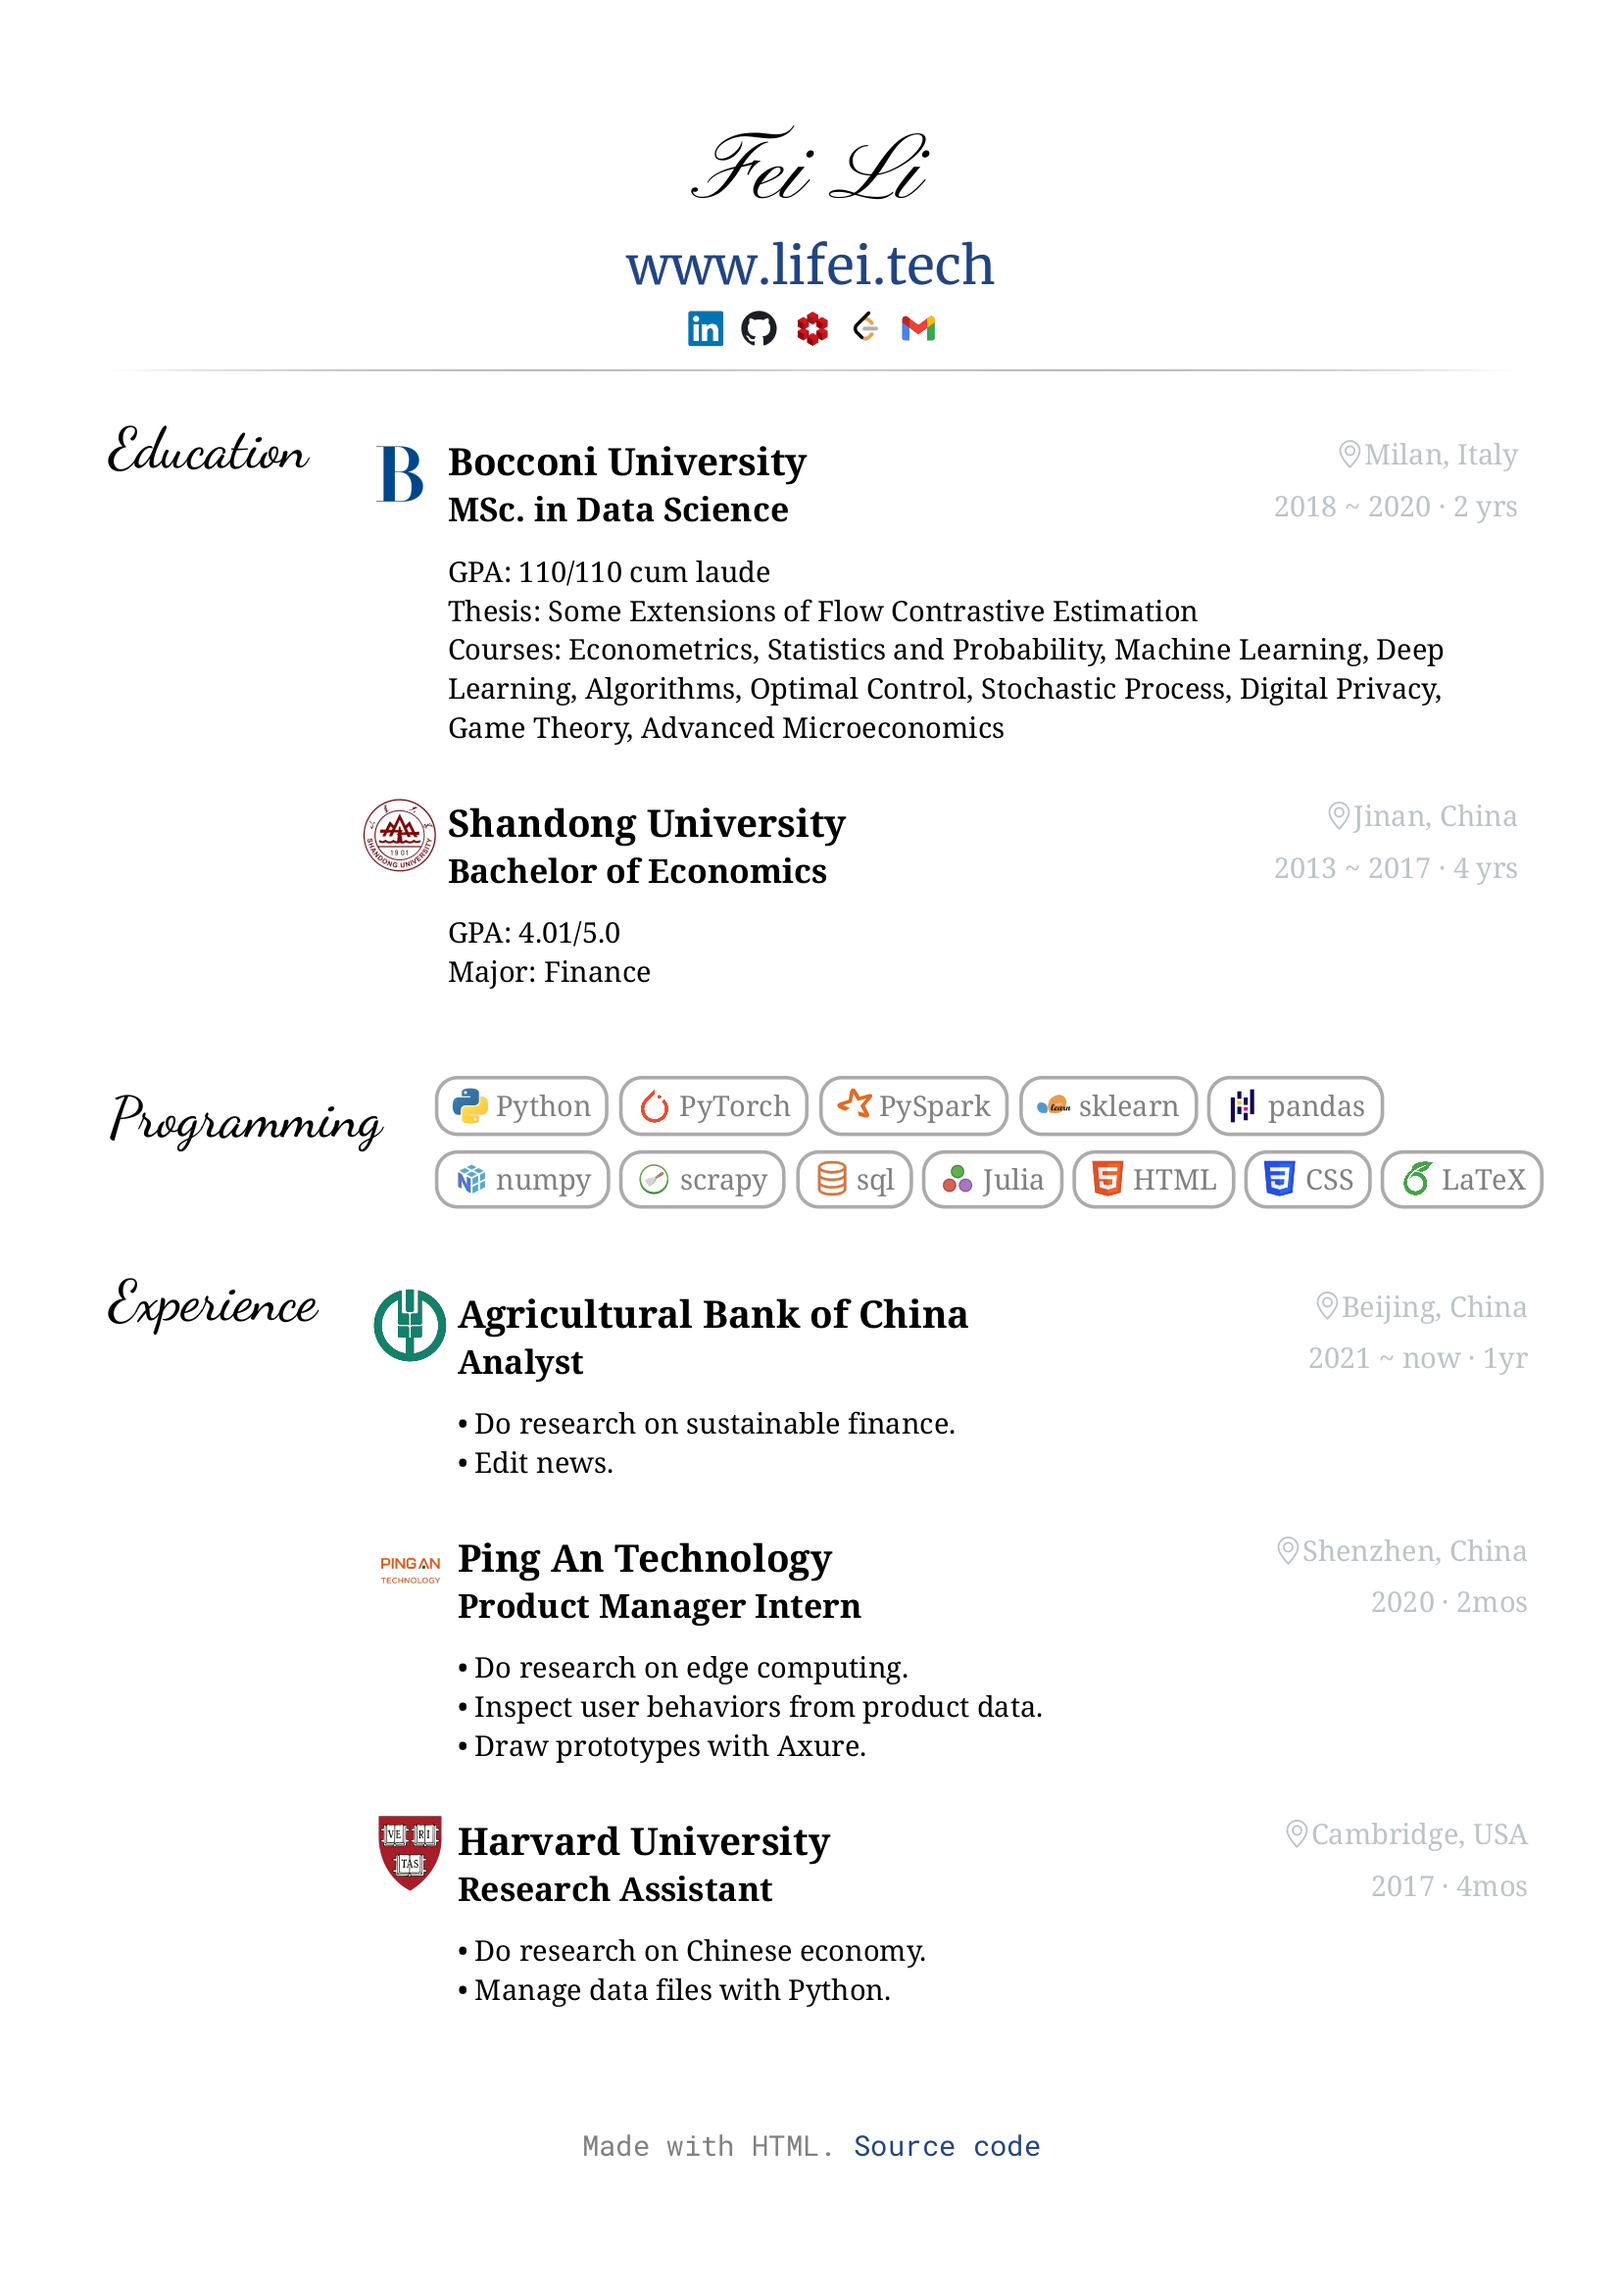
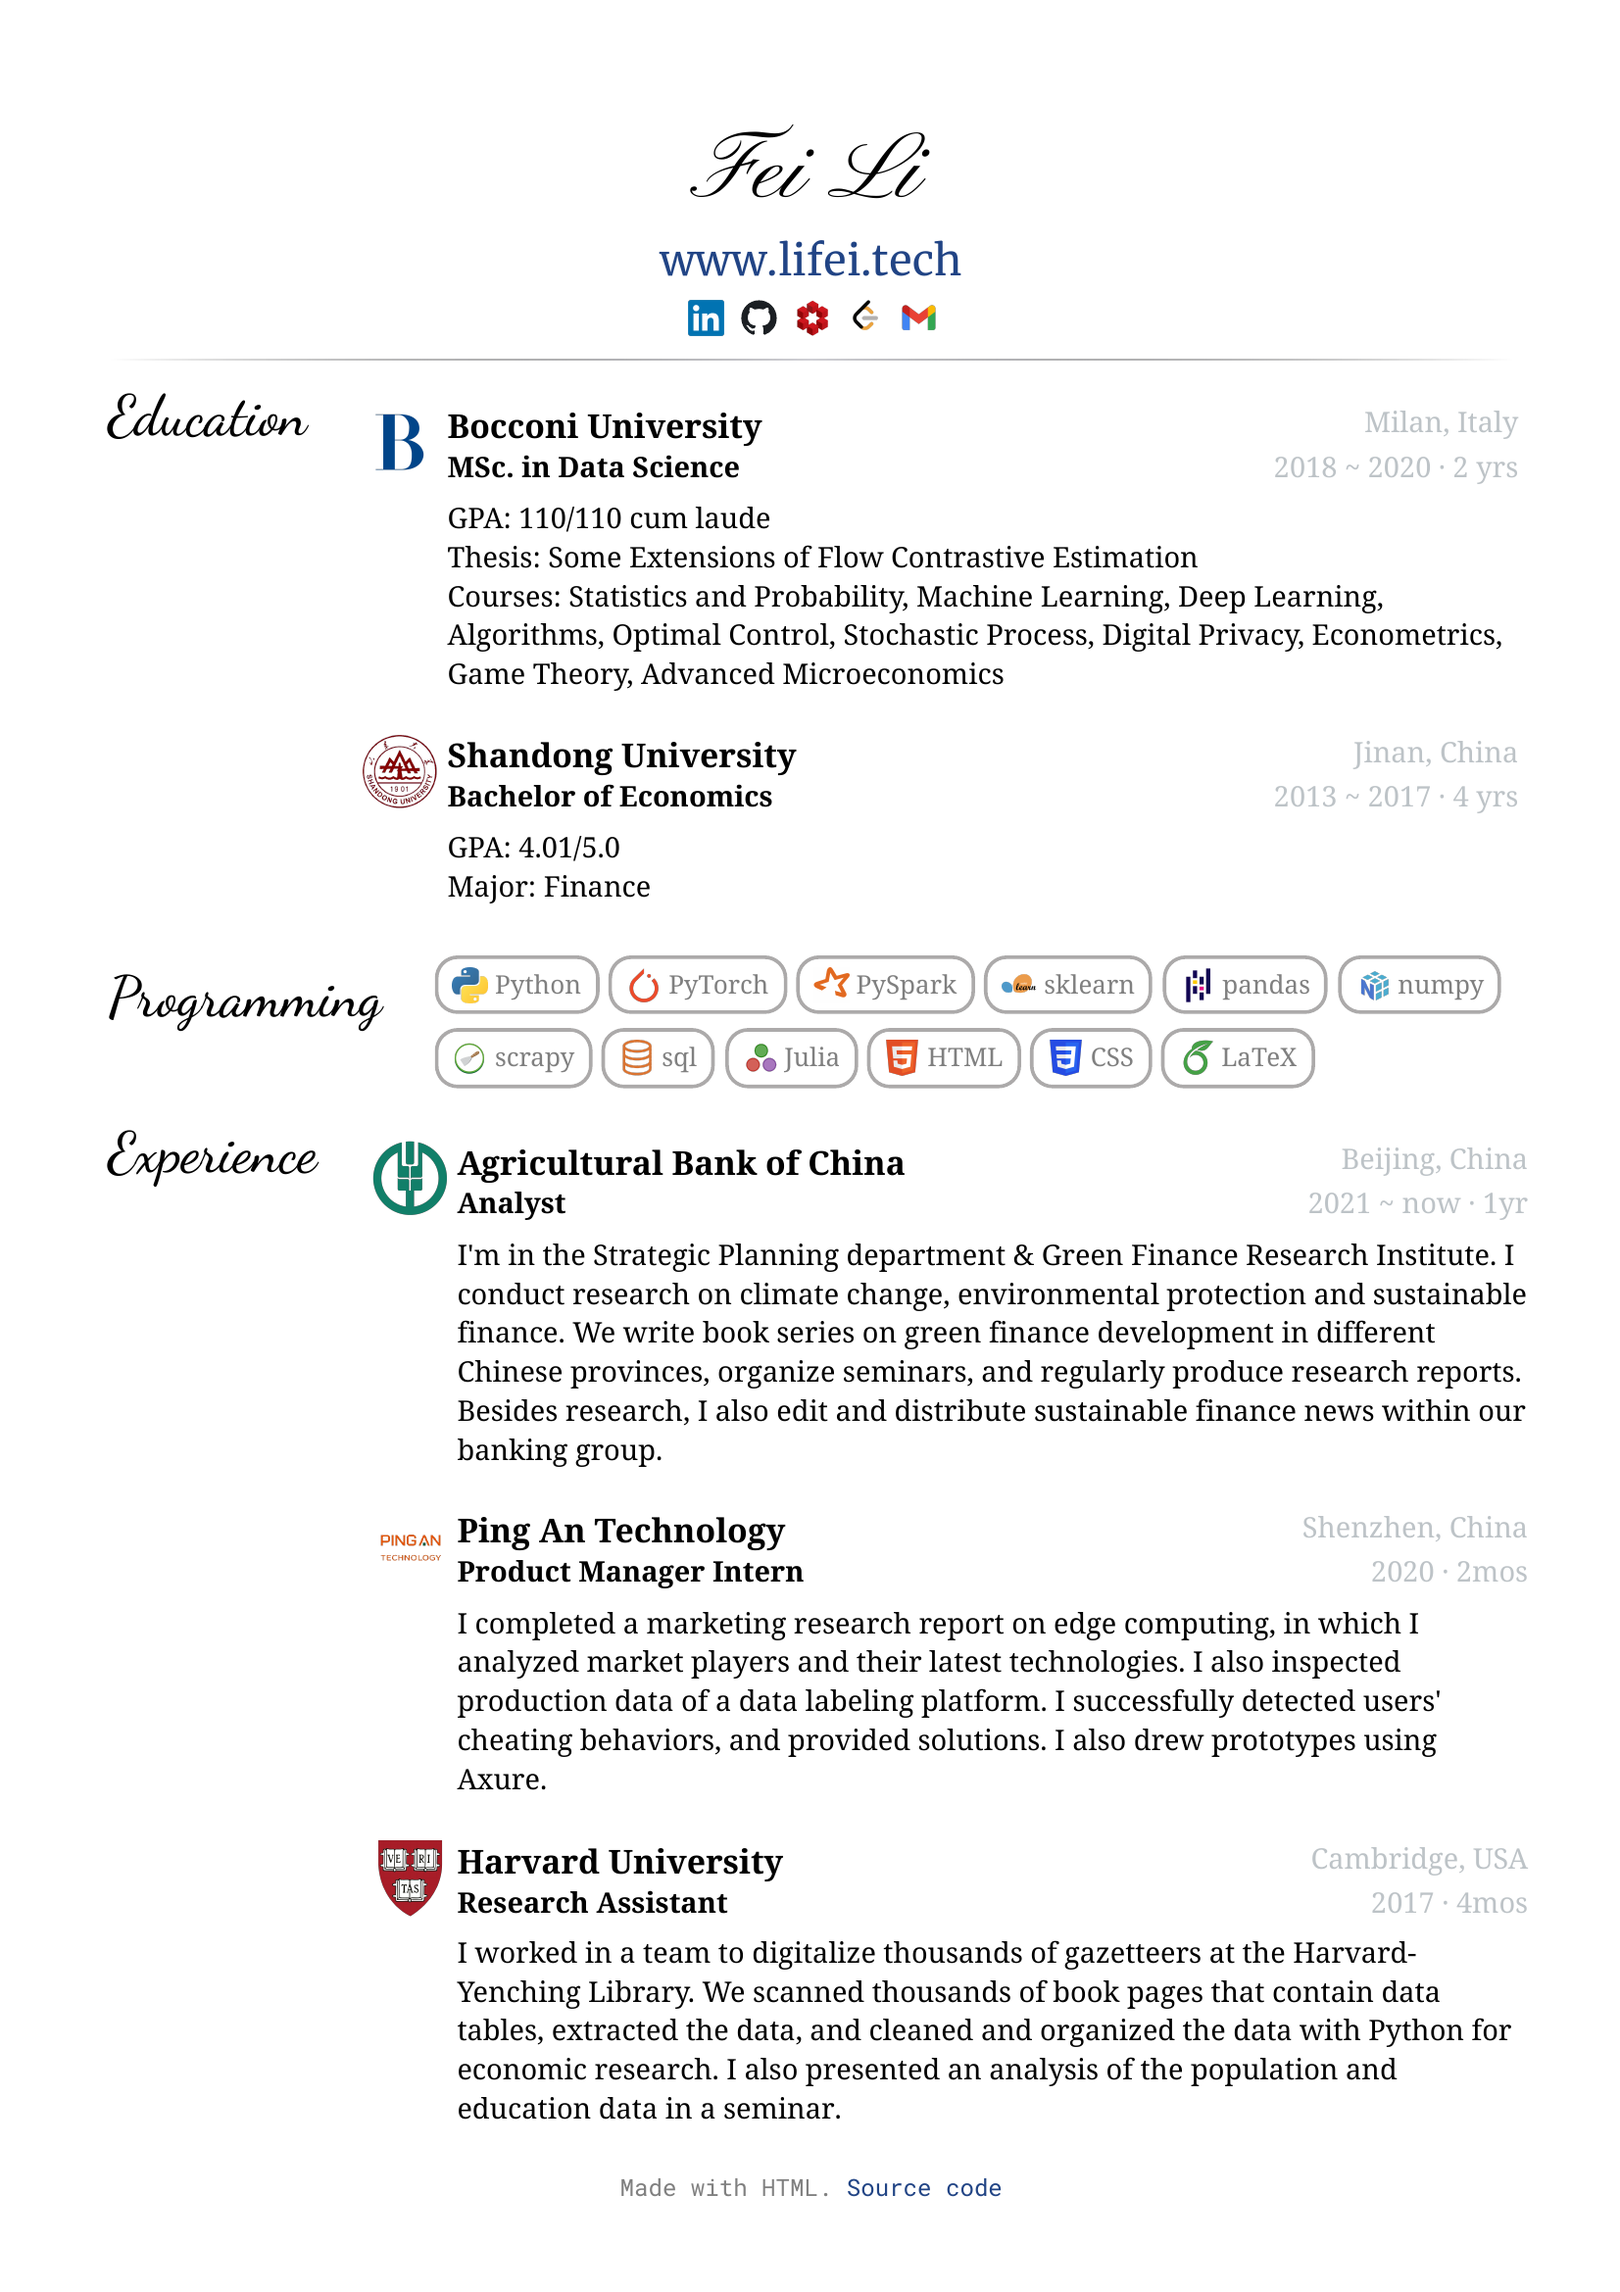
update resume

diff --git a/style.scss b/style.scss
@@ -49,7 +49,7 @@ a, a:visited {
 }
 
 .web-address {
-    font-size: 22pt;
+    font-size: 18pt;
     font-family: 'Merriweather', serif;
     margin-bottom: 5pt;
     a {
@@ -63,6 +63,7 @@ h2 {
     font-weight: normal;
     font-family: 'Dancing Script', cursive;
     margin-top: 5px;
+    margin-left: 0;
 }
 
 .section {
@@ -70,7 +71,7 @@ h2 {
     flex-direction: row;
     align-items: flex-start;
     gap: 30px;
-    margin-top: 20px;
+    margin-top: 5px;
 }
 
 p {
@@ -78,8 +79,8 @@ p {
     flex-wrap: wrap;
     width: 160mm;
     font-size: 12pt;
-    margin-top: 9pt;
-    margin-bottom: 9pt;
+    margin-top: 5pt;
+    margin-bottom: 5pt;
 }
 
 // programming icons
@@ -93,7 +94,7 @@ p {
 .pgm-item {
     display: inline-block;
     line-height: 1rem;
-    font-size: 1rem;
+    font-size: 0.9rem;
     background: none;
     border: 2px solid #ACAAAA;
     border-radius: 0.8rem;
@@ -128,12 +129,12 @@ p {
     }
 
 .title {
-    font-size: 16pt;
+    font-size: 14pt;
     font-weight: 600;
 
     }
 .subtitle {
-    font-size: 14pt;
+    font-size: 12pt;
     font-weight: 600;
     margin-top: 5px;
     margin-bottom: 5px;
@@ -166,7 +167,7 @@ footer {
     font-family: 'Roboto Mono', monospace;
     text-align: center;
     color: gray;
-    margin-top: 10mm;
+    font-size: 10pt;
 
     a, a:visited {
         text-decoration: none;
